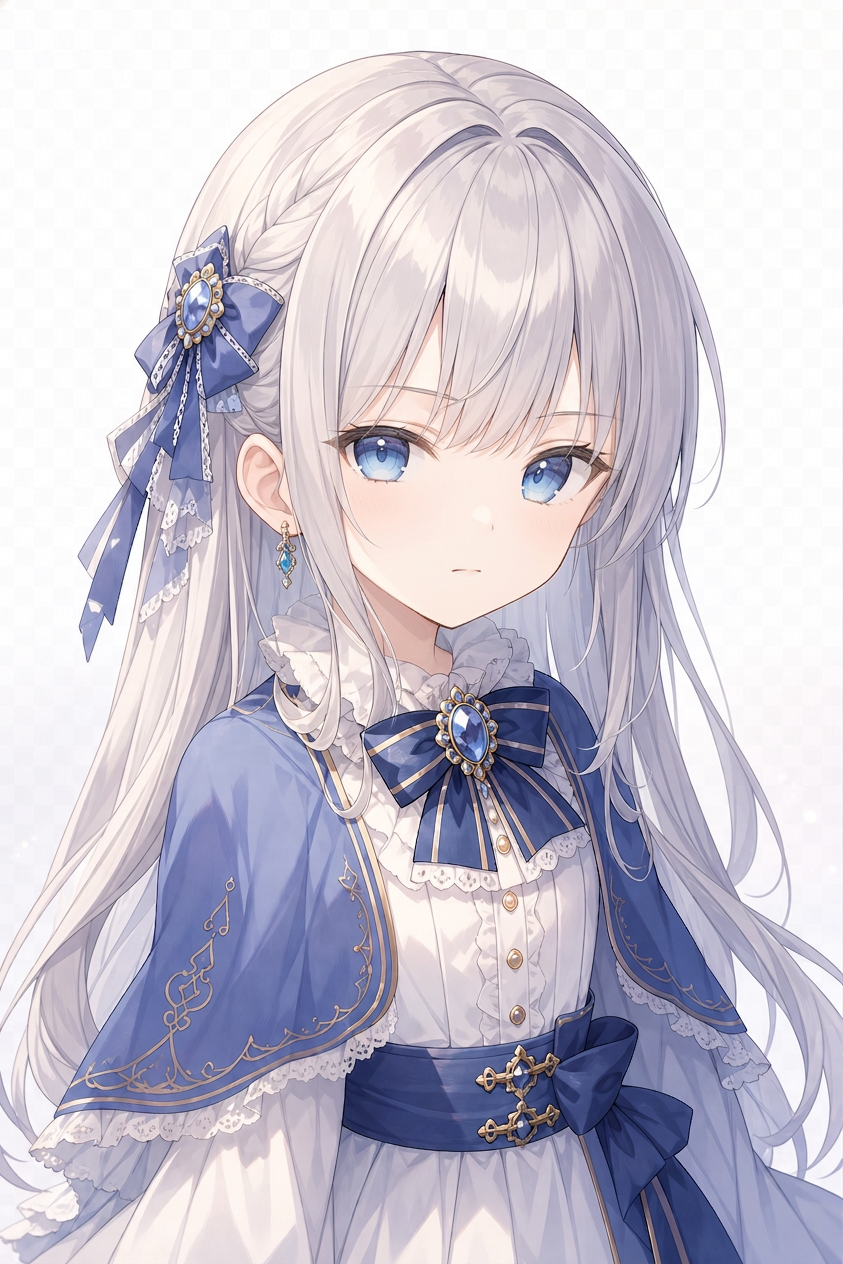
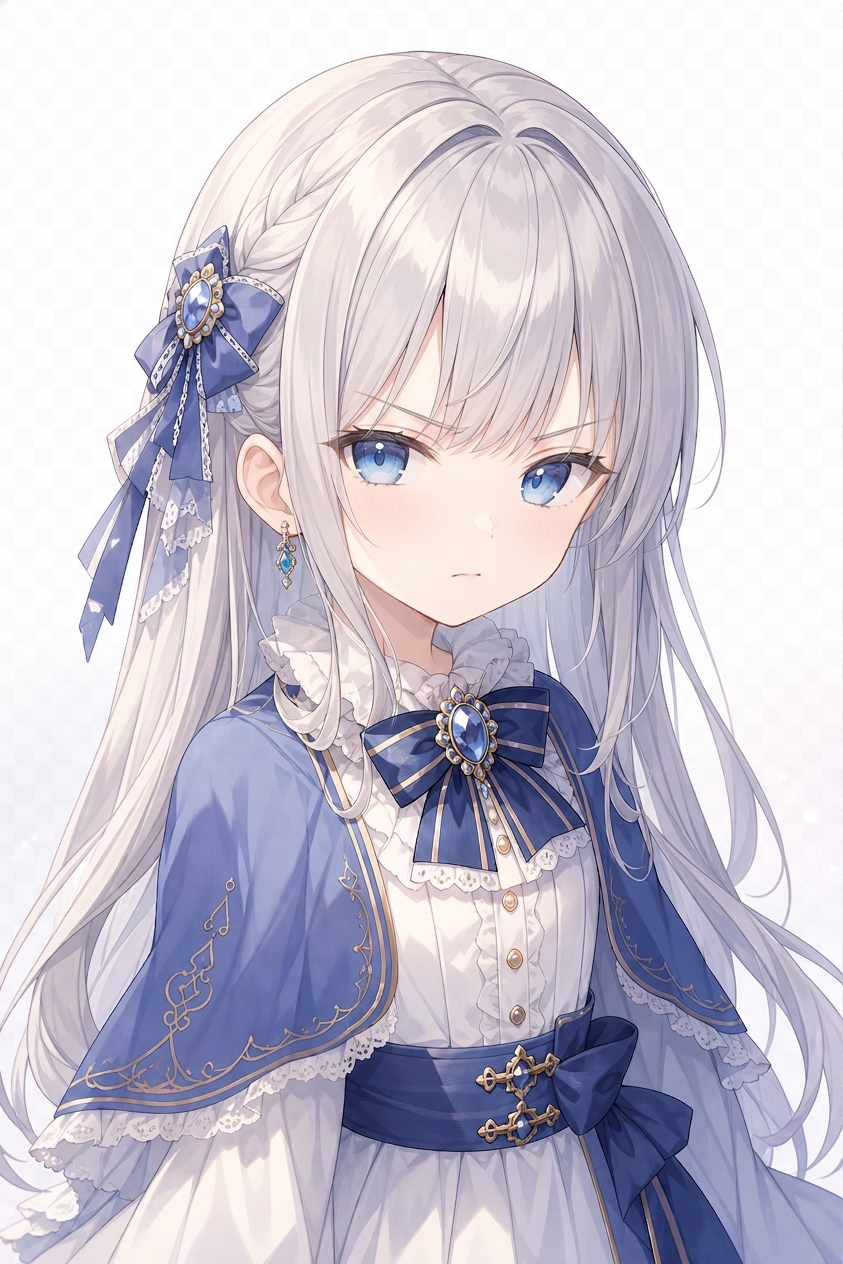
Add fiercer young serious and matching-background wink.
Keep surprised and shy. Teary still failed to generate this round.

Changed region(s): [[0.3701, 0.2777, 0.5552, 0.4011], [0.6168, 0.3085, 0.7402, 0.4628], [0.4935, 0.4628, 0.5243, 0.5245]]

diff --git a/assets/portraits/named/README.md b/assets/portraits/named/README.md
@@ -7,9 +7,10 @@ sylvia_teenage_normal / sad / serious / sleepy / surprised / teary / wink
 
 ## young
 sylvia_young_normal
-sylvia_young_sad          （上一轮通过）
-sylvia_young_serious      （本轮：同一透明底，闭嘴）
-sylvia_young_surprised    （本轮：同一透明底，张嘴）
-sylvia_young_shy          （本轮：同一透明底，脸红）
+sylvia_young_sad
+sylvia_young_surprised
+sylvia_young_shy
+sylvia_young_serious   （本轮更凶：皱眉闭嘴）
+sylvia_young_wink      （本轮：同一透明底，眨眼）
 
-待补：teary / wink
+待补：teary
